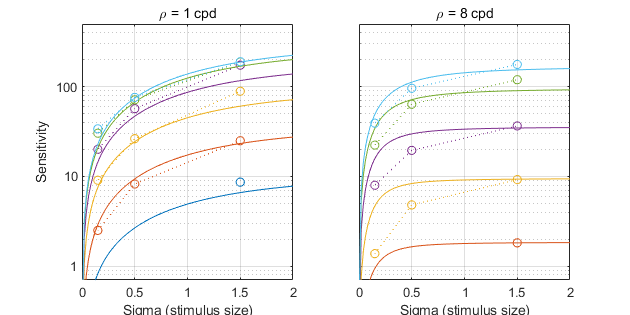
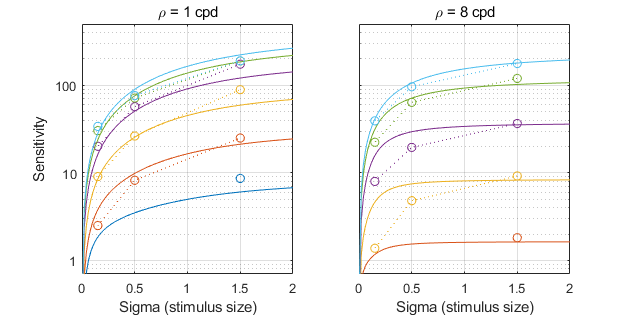
castleCSF share results

diff --git a/share/csf-castle/index.html b/share/csf-castle/index.html
@@ -15,50 +15,50 @@ function detectLeftButton(evt) {
 <h1>Fitting of chromatic Gabor and Disc datasets</h1>
 <h2>Fitting error</h2>
 <TABLE>
-<tr><td rowspan="2">Dataset</td><td colspan="1">Fitting error</td><td colspan="1">Sensitivity adjustment</td></tr><tr><td><a href="#castle-csf">castleCSF</a></td><td><a href="#castle-csf">castleCSF</a></td></tr><tr><td>Average training</td><td>NaN [dB]</td><td>N/A</td></tr><tr><td><a href="#modelfest">modelfest</a></td><td>2.77 [dB]</td><td>1.115</td></tr><tr><td><a href="#colorfest">colorfest</a></td><td>3.13 [dB]</td><td>1.149</td></tr><tr><td><a href="#hdrvdp_csf">hdrvdp_csf</a></td><td>3.20 [dB]</td><td>1.473</td></tr><tr><td><a href="#hdr_csf">hdr_csf</a></td><td>3.96 [dB]</td><td>1.000</td></tr><tr><td><a href="#hdr_csf_disc">hdr_csf_disc</a></td><td>2.86 [dB]</td><td>1.536</td></tr><tr><td><a href="#anderson1991">anderson1991</a></td><td>NaN [dB]</td><td>1.000</td></tr><tr><td><a href="#virsu1979">virsu1979</a></td><td>5.57 [dB]</td><td>1.752</td></tr><tr><td><a href="#virsu1982">virsu1982</a></td><td>6.22 [dB]</td><td>0.656</td></tr><tr><td><a href="#robson1966">robson1966</a></td><td>8.51 [dB]</td><td>0.785</td></tr><tr><td><a href="#rovamo1993">rovamo1993</a></td><td>3.27 [dB]</td><td>2.115</td></tr><tr><td><a href="#vanderHorst1969_a">vanderHorst1969_a</a></td><td>5.72 [dB]</td><td>0.864</td></tr><tr><td><a href="#vanderHorst1969_b">vanderHorst1969_b</a></td><td>4.23 [dB]</td><td>0.624</td></tr><tr><td><a href="#swanson1986">swanson1986</a></td><td>8.11 [dB]</td><td>0.156</td></tr></TABLE>
+<tr><td rowspan="2">Dataset</td><td colspan="1">Fitting error</td><td colspan="1">Sensitivity adjustment</td></tr><tr><td><a href="#castle-csf">castleCSF</a></td><td><a href="#castle-csf">castleCSF</a></td></tr><tr><td>Average training</td><td>NaN [dB]</td><td>N/A</td></tr><tr><td><a href="#modelfest">modelfest</a></td><td>2.73 [dB]</td><td>0.984</td></tr><tr><td><a href="#colorfest">colorfest</a></td><td>2.83 [dB]</td><td>1.069</td></tr><tr><td><a href="#hdrvdp_csf">hdrvdp_csf</a></td><td>3.21 [dB]</td><td>1.286</td></tr><tr><td><a href="#hdr_csf">hdr_csf</a></td><td>3.52 [dB]</td><td>1.000</td></tr><tr><td><a href="#hdr_csf_disc">hdr_csf_disc</a></td><td>3.18 [dB]</td><td>1.430</td></tr><tr><td><a href="#anderson1991">anderson1991</a></td><td>NaN [dB]</td><td>1.000</td></tr><tr><td><a href="#virsu1979">virsu1979</a></td><td>4.55 [dB]</td><td>1.575</td></tr><tr><td><a href="#virsu1982">virsu1982</a></td><td>6.18 [dB]</td><td>0.727</td></tr><tr><td><a href="#robson1966">robson1966</a></td><td>8.64 [dB]</td><td>0.864</td></tr><tr><td><a href="#rovamo1993">rovamo1993</a></td><td>3.65 [dB]</td><td>1.800</td></tr><tr><td><a href="#vanderHorst1969_a">vanderHorst1969_a</a></td><td>5.80 [dB]</td><td>0.997</td></tr><tr><td><a href="#vanderHorst1969_b">vanderHorst1969_b</a></td><td>4.21 [dB]</td><td>0.810</td></tr><tr><td><a href="#swanson1986">swanson1986</a></td><td>8.14 [dB]</td><td>0.160</td></tr></TABLE>
 <h2>Model parameters</h2>
 <div class="params_frame">
 <div align="center">castleCSF</div>
 <div style="white-space: pre-line;">
-	p.sust(1).S_max = [ 77.4505 126030 0.0548192 0.000507155 5.10945e+06 ];
-	p.sust(1).f_max = [ 2.98369 858.199 0.393315 ];
-	p.sust(1).bw = 1.28183;
-	p.sust(1).A0 = 38512.9;
-	p.sust(1).f0 = 0.018085;
-	p.sust(2).S_max = [ 41161.9 2806.78 0.710172 ];
-	p.sust(2).f_max = 1.15286;
+	p.sust(1).S_max = [ 238.794 43475.4 0.136454 0.000604018 2.21977e+06 ];
+	p.sust(1).f_max = [ 3.50023 741.994 0.370083 ];
+	p.sust(1).bw = 1.04376;
+	p.sust(1).A0 = 36271.5;
+	p.sust(1).f0 = 0.0163703;
+	p.sust(2).S_max = [ 71374.3 1958.59 0.983262 ];
+	p.sust(2).f_max = 1.19807;
 	p.sust(2).bw = 2.04656e-111;
-	p.sust(2).A0 = 70.8068;
-	p.sust(2).f0 = 0.0512302;
-	p.sust(3).S_max = [ 14230.5 31384.3 0.445065 ];
-	p.sust(3).f_max = 1.34482;
+	p.sust(2).A0 = 35.5602;
+	p.sust(2).f0 = 0.0836354;
+	p.sust(3).S_max = [ 7601.98 39599.3 0.325229 ];
+	p.sust(3).f_max = 0.917613;
 	p.sust(3).bw = 0;
-	p.sust(3).A0 = 4.76033;
-	p.sust(3).f0 = 0.0283732;
-	p.trans(1).S_max = [ 1.00051e-223 296.451 ];
-	p.trans(1).f_max = 0.541555;
-	p.trans(1).bw = 3.39404e-24;
-	p.trans(1).A0 = 2941.03;
-	p.trans(1).f0 = 0.377208;
-	p.trans(2).S_max = [ 0.109158 87.8571 ];
-	p.trans(2).f_max = 0.0740562;
-	p.trans(2).bw = 1.32695;
-	p.trans(2).A0 = 3.5313e+18;
-	p.trans(2).f0 = 2.9904e+28;
-	p.trans(3).S_max = [ 0.0873769 5.24281 ];
-	p.trans(3).f_max = 0.808693;
+	p.sust(3).A0 = 3.44074;
+	p.sust(3).f0 = 0.0202263;
+	p.trans(1).S_max = [ 1.00051e-223 73.8037 ];
+	p.trans(1).f_max = 0.68132;
+	p.trans(1).bw = 8.41298e-27;
+	p.trans(1).A0 = 3800.84;
+	p.trans(1).f0 = 0.665142;
+	p.trans(2).S_max = [ 0.0757415 74.1557 ];
+	p.trans(2).f_max = 0.0868169;
+	p.trans(2).bw = 1.18408;
+	p.trans(2).A0 = 29.0251;
+	p.trans(2).f0 = 4.86702e+33;
+	p.trans(3).S_max = [ 0.117949 3.50952 ];
+	p.trans(3).f_max = 1.31609;
 	p.trans(3).bw = 0;
-	p.trans(3).A0 = 947.49;
-	p.trans(3).f0 = 7.54011;
-	p.sigma_sust = [ 505735 5632.28 3346.03 ];
-	p.sigma_trans = [ 2.93136 1.91577 1.5391 ];
-	p.colmat = [ 0.00123883 0.229778 0.932581 1.07013 6.41585e-07 0.0037047 ];
+	p.trans(3).A0 = 2129.98;
+	p.trans(3).f0 = 0.157937;
+	p.sigma_sust = [ 2.23541e+34 1.29643e+31 9.12656e+64 ];
+	p.sigma_trans = [ 1.45066 1.91557 2.17988 ];
+	p.colmat = [ 1.12294e-06 2.26376e-67 1.41355 3.35348 0.0170339 0.221486 ];
 
 M_lms2acc =
 
-    1.0000    0.2298    0.0000
-    1.0000   -0.9326    0.0037
-   -0.0012   -1.0701    1.0000
+    1.0000    0.0000    0.0170
+    1.0000   -1.4136    0.2215
+   -0.0000   -3.3535    1.0000
 
 </div>
 </div>
